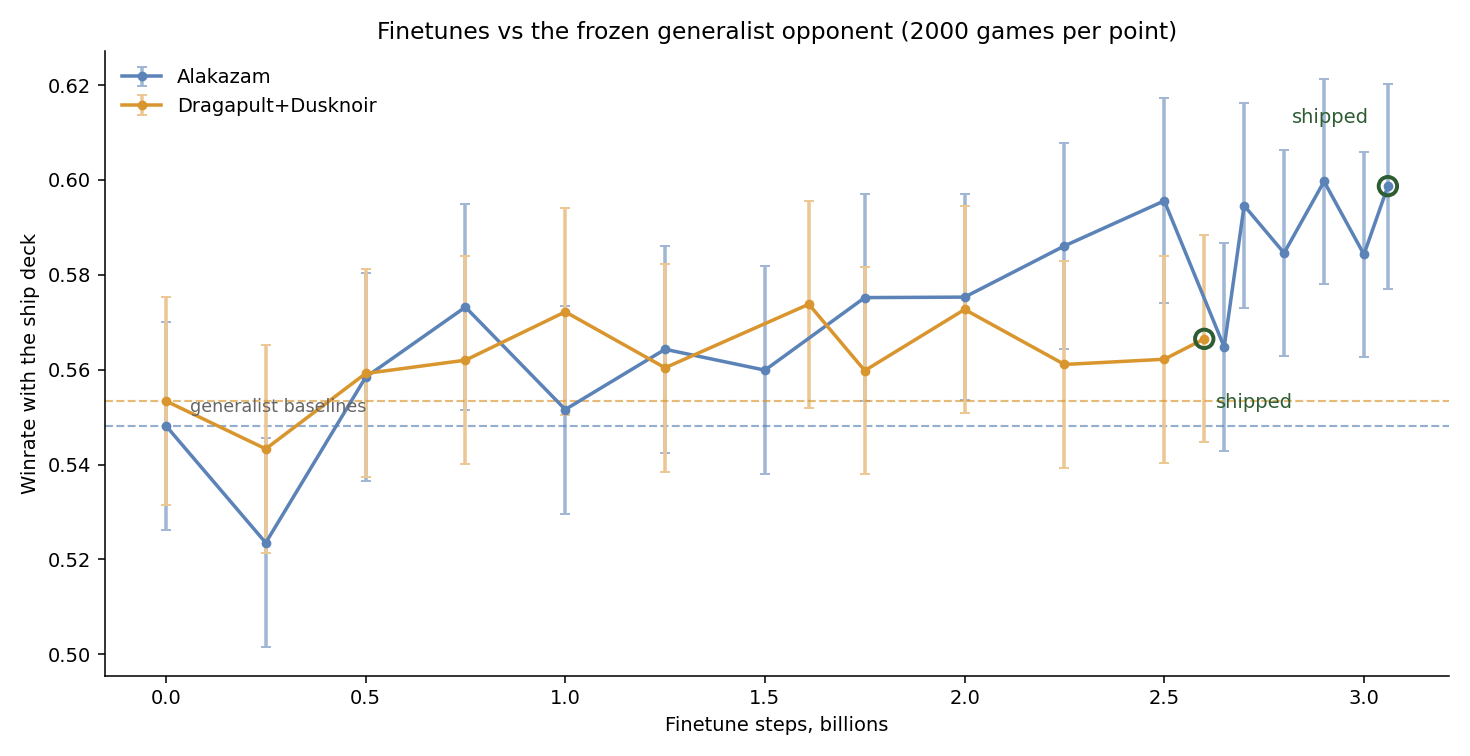
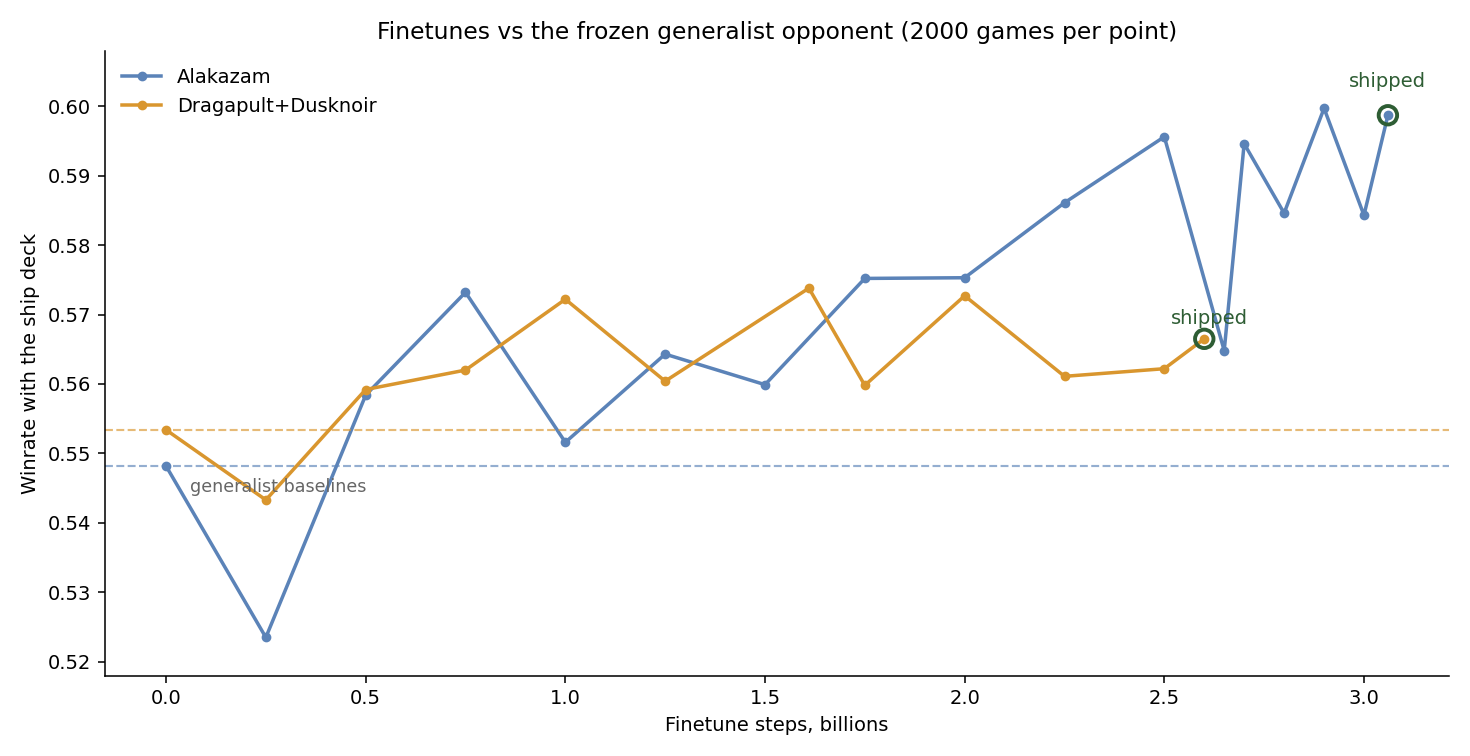
Sync writeup and final figures

diff --git a/WRITEUP.md b/WRITEUP.md
@@ -22,7 +22,7 @@ That's why I first trained a generalist model that can play almost 5000 decks an
 
 ## State and Action Representations, NN Architecture
 
-From the start I was planning to use a Transformer neural network, so the state and action representations boiled down to "tokenizing" the entire game as well as possible, while not losing out on any information. This proved excessively difficult as PTCG is a complex game with a lot of variables and edge cases.
+As I was planning to use a Transformer neural network, the state and action representations boiled down to "tokenizing" the entire game as well as possible, while not losing out on any information. This proved excessively difficult as PTCG is a complex game with a lot of variables and edge cases.
 
 ### State Representation
 
@@ -64,20 +64,20 @@ As this was my first real attempt at self-play with PPO, I relied heavily on the
 
 ### Environment Speedups
 
-The engine is a fast C++ binary, so fortunately no rewrite of such a complex game was necessary. The biggest improvement came from optimising the engine-side observation encoding. The engine returns every game state as a big JSON string, and parsing those in Python dominated collection time. My fix was to skip JSON entirely. I made the engine export observations as a raw binary buffer and moved the whole state encoding into C on top of it. Together with CUDA-graph collection and variable-length attention, self-play ran at about 16.5k steps per second on 4 H200s.
+The biggest improvement came from optimising the engine-side observation encoding. The engine returns every game state as a big JSON, and parsing those in Python dominated collection time. My fix was to skip JSON entirely. I made the engine export observations as a raw binary buffer and moved the whole state encoding into C on top of it. Together with CUDA-graph collection and variable-length attention, self-play ran at about 16.5k steps per second on 4 H200s.
 
 ### Used Decks
 
-I acquired decks from two sources. First, I periodically downloaded the episodes of top players and read each deck straight out of the replay. Second, I scraped competitive human decklists from Limitless, keeping every list that placed top 128 at a major and every grassroots list that made top 8 at least twice. Some of those lists used cards that don't exist in the competition's card set, so instead of dropping the whole deck I swapped such cards for their closest legal replacements. The final pool totaled 4941 decks, 3517 from Kaggle and 1424 from Limitless.
+I acquired decks from two sources. First, I periodically downloaded the episodes of top players and read each deck straight out of the replay. Second, I scraped competitive human decklists from Limitless, keeping every list that placed top 128 at a major and every grassroots list that made top 8 at least twice. The final pool totaled 4941 decks, 3517 from Kaggle and 1424 from Limitless.
 
 ### Training The Generalist
 
-The generalist was trained with self-play PPO on the full deck pool. Opponent decks were drawn with the TF-IDF sampling described in the next section, which keeps the training distribution balanced across archetypes. The run went to about 11B environment steps. Whenever progress plateaued I lowered the learning rate and increased the batch size. I did not use any learning rate schedule. The most important parameters:
+The generalist was trained with self-play PPO on the full deck pool. Opponent decks were drawn with the TF-IDF sampling described in the next section. The run went to about 11B environment steps. Whenever progress plateaued I lowered the learning rate and increased the batch size. I did not use any learning rate schedule. The most important parameters:
 
 ```
 [env]
-num_envs = 768            ; one engine process per battle
-turn_move_limit = 200     ; instant loss for the stalling side
+num_envs = 768
+turn_move_limit = 200
 
 [train]
 total_timesteps = 11_000_000_000
@@ -90,7 +90,7 @@ clip_coef = 0.2
 ent_coef = 0.002
 learning_rate = 1e-4      ; lowered to 5e-5 at ~4B steps and 2.5e-5 at ~9B
 teacher_kl_coef = 0.005
-promote_winrate = 0.53    ; teacher replaced when the learner wins 53% head-to-head
+promote_winrate = 0.53
 ```
 
 #### TF-IDF Sampling
@@ -116,7 +116,7 @@ As a second way of evaluation I used the Kaggle LB. Even small gains on my priva
 
 Throughout training I also saved the result of every training game played. This gave me results from about 50M games and let me gauge the strong decks quite well.
 
-![Piloting winrate per family over the training run](matchup_progress.png)
+![Winrate of the best list per archetype over the training run](matchup_progress.png)
 
 For basically the entire training run the two outstanding archetypes were Alakazam and Dragapult. I decided that my two final decks would come from these two archetypes.
 
@@ -179,5 +179,5 @@ For the entire post-deadline window my Alakazam performed better than Dragapult+
 1. The Alakazam deck selection. I feel like I lost a few precious placements because of Xerosic's Machinations instead of Genesect+tools.
 2. My evaluation was too broad. 1553 decks diluted the signal too much. Fewer, stronger decks would have been a better discriminator.
 3. A fixed learning rate worked better. My initial 3B run failed here, the schedule annealed too early and the run crawled.
-4. Too many tokens per state. The sequence is over 300 tokens and a lot of them are deck, discard cards or UNK tokens. Some convolution or pooling over those zones could cut the compute a lot.
+4. Too many tokens per state. The sequence is over 300 tokens and a lot of them are deck cards, discard cards or UNK tokens. Some convolution or pooling over those zones could cut the compute a lot.
 5. I scaled the model size too early instead of optimising hyperparameters.
